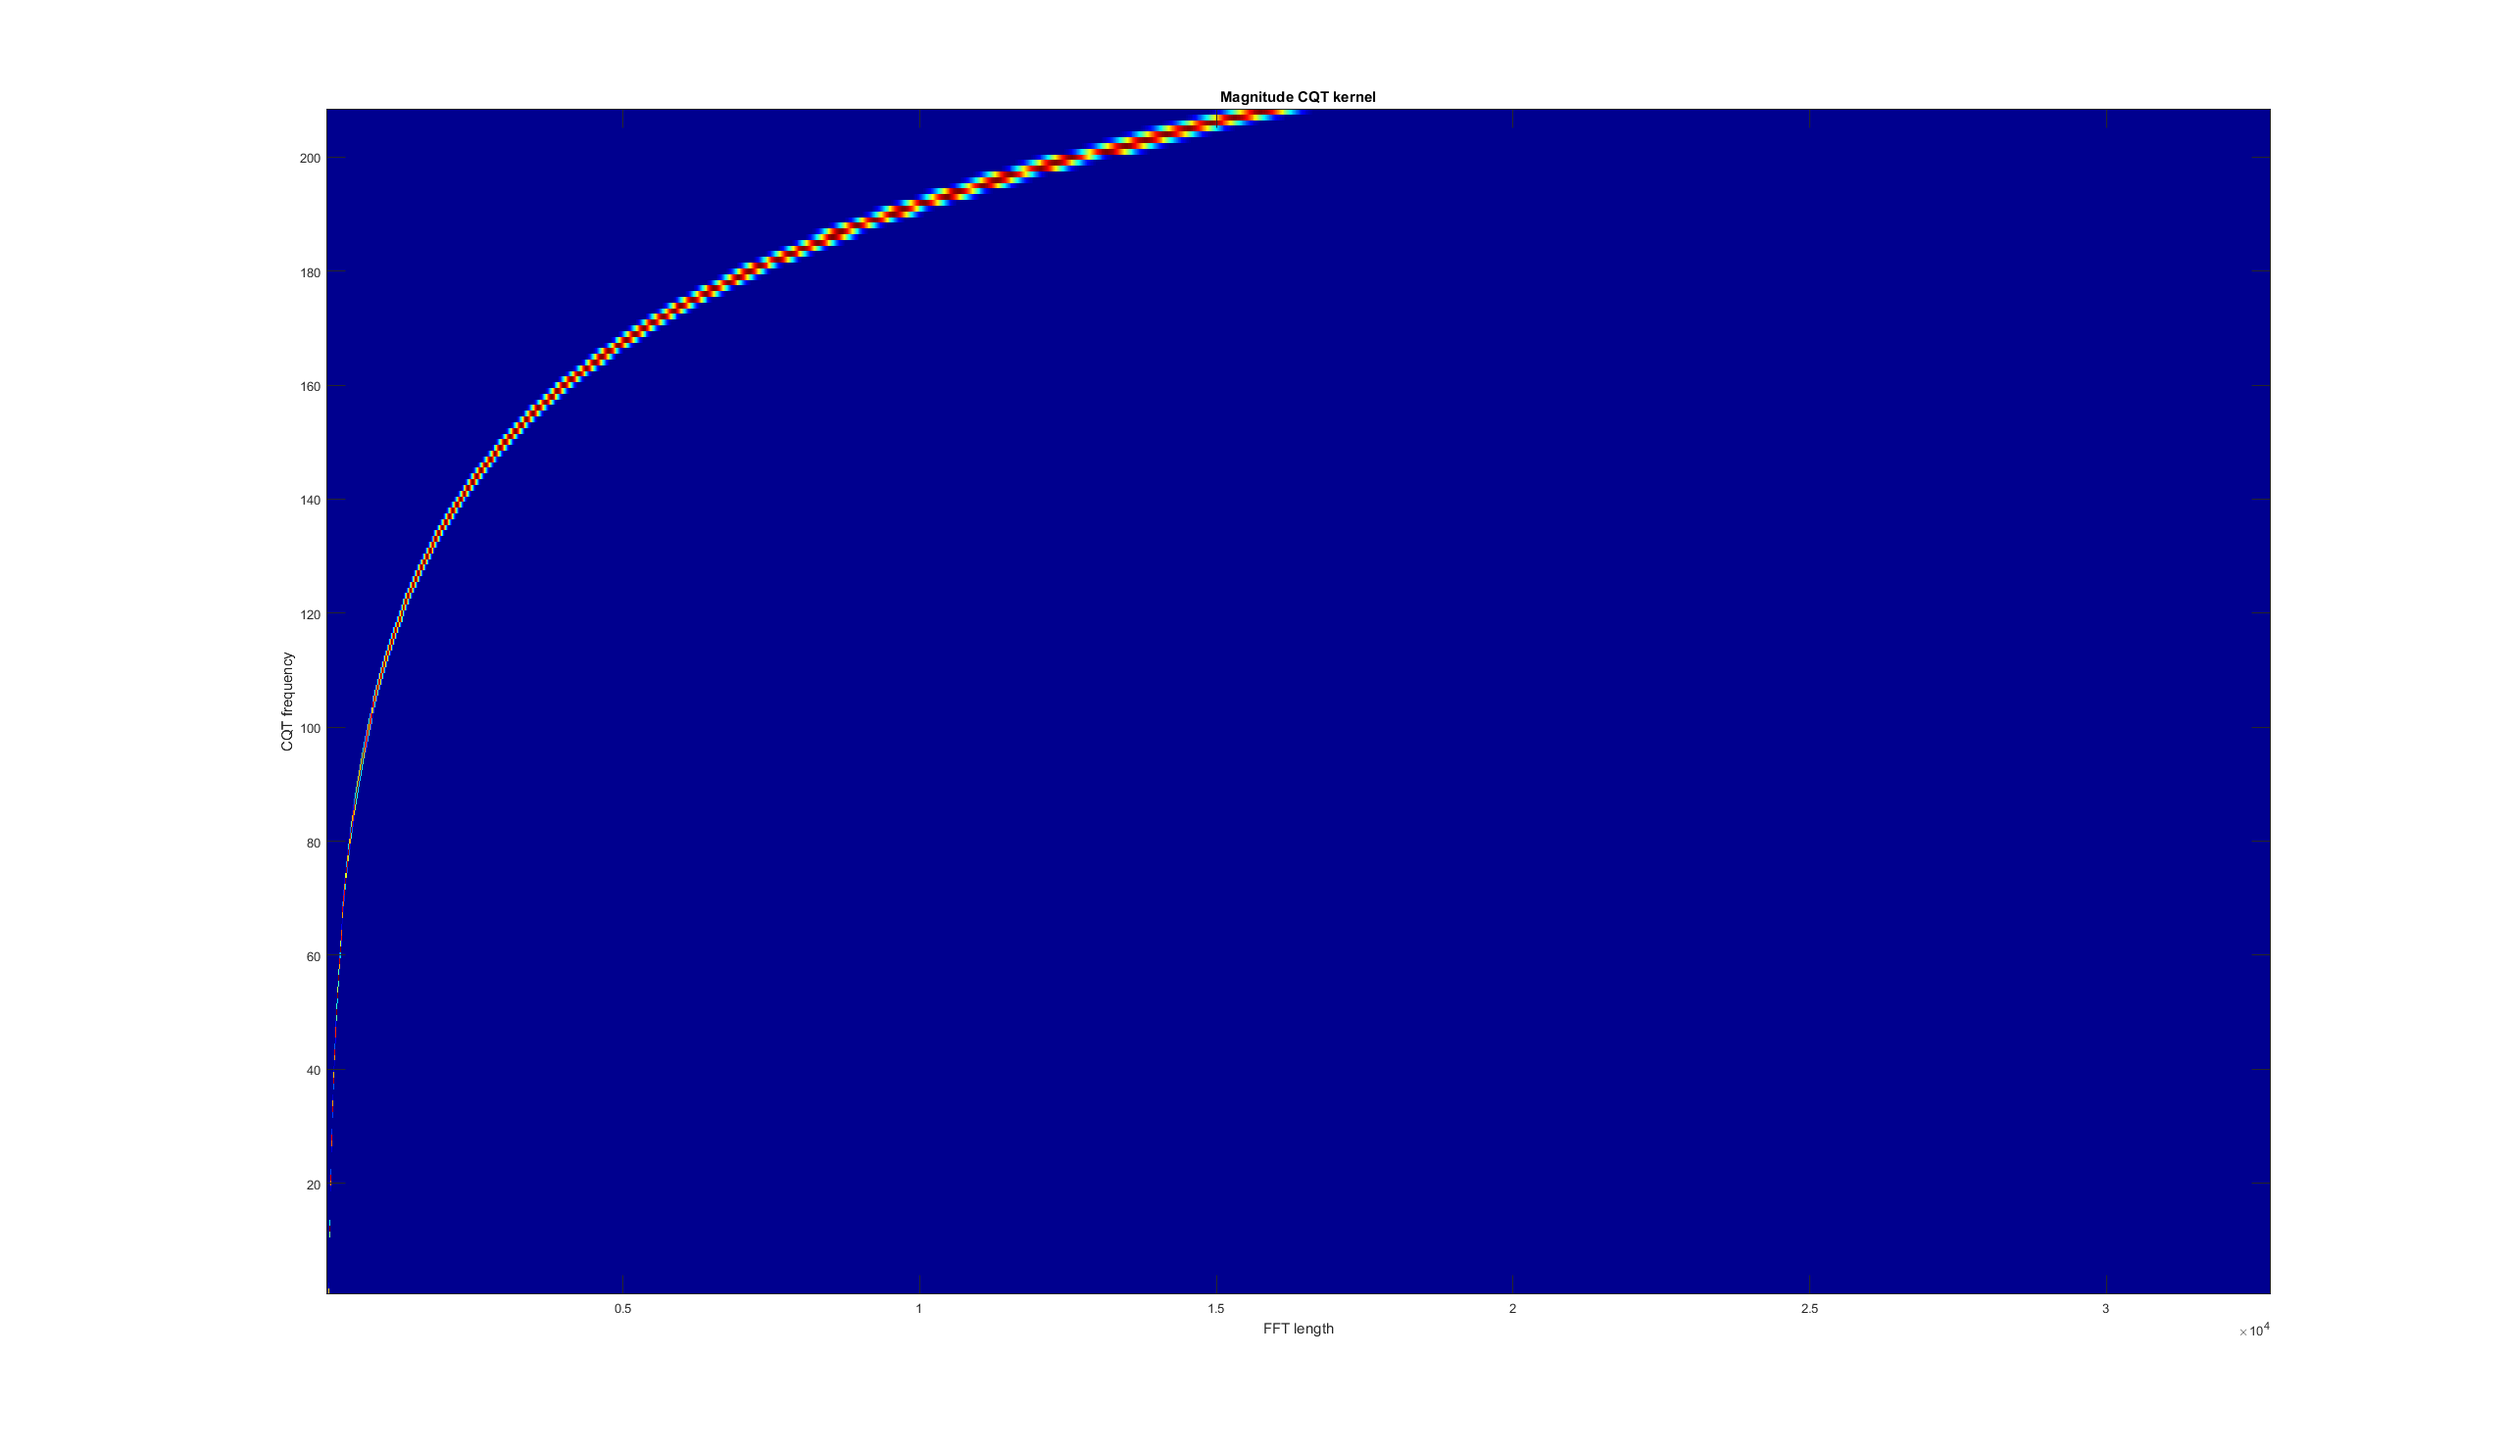
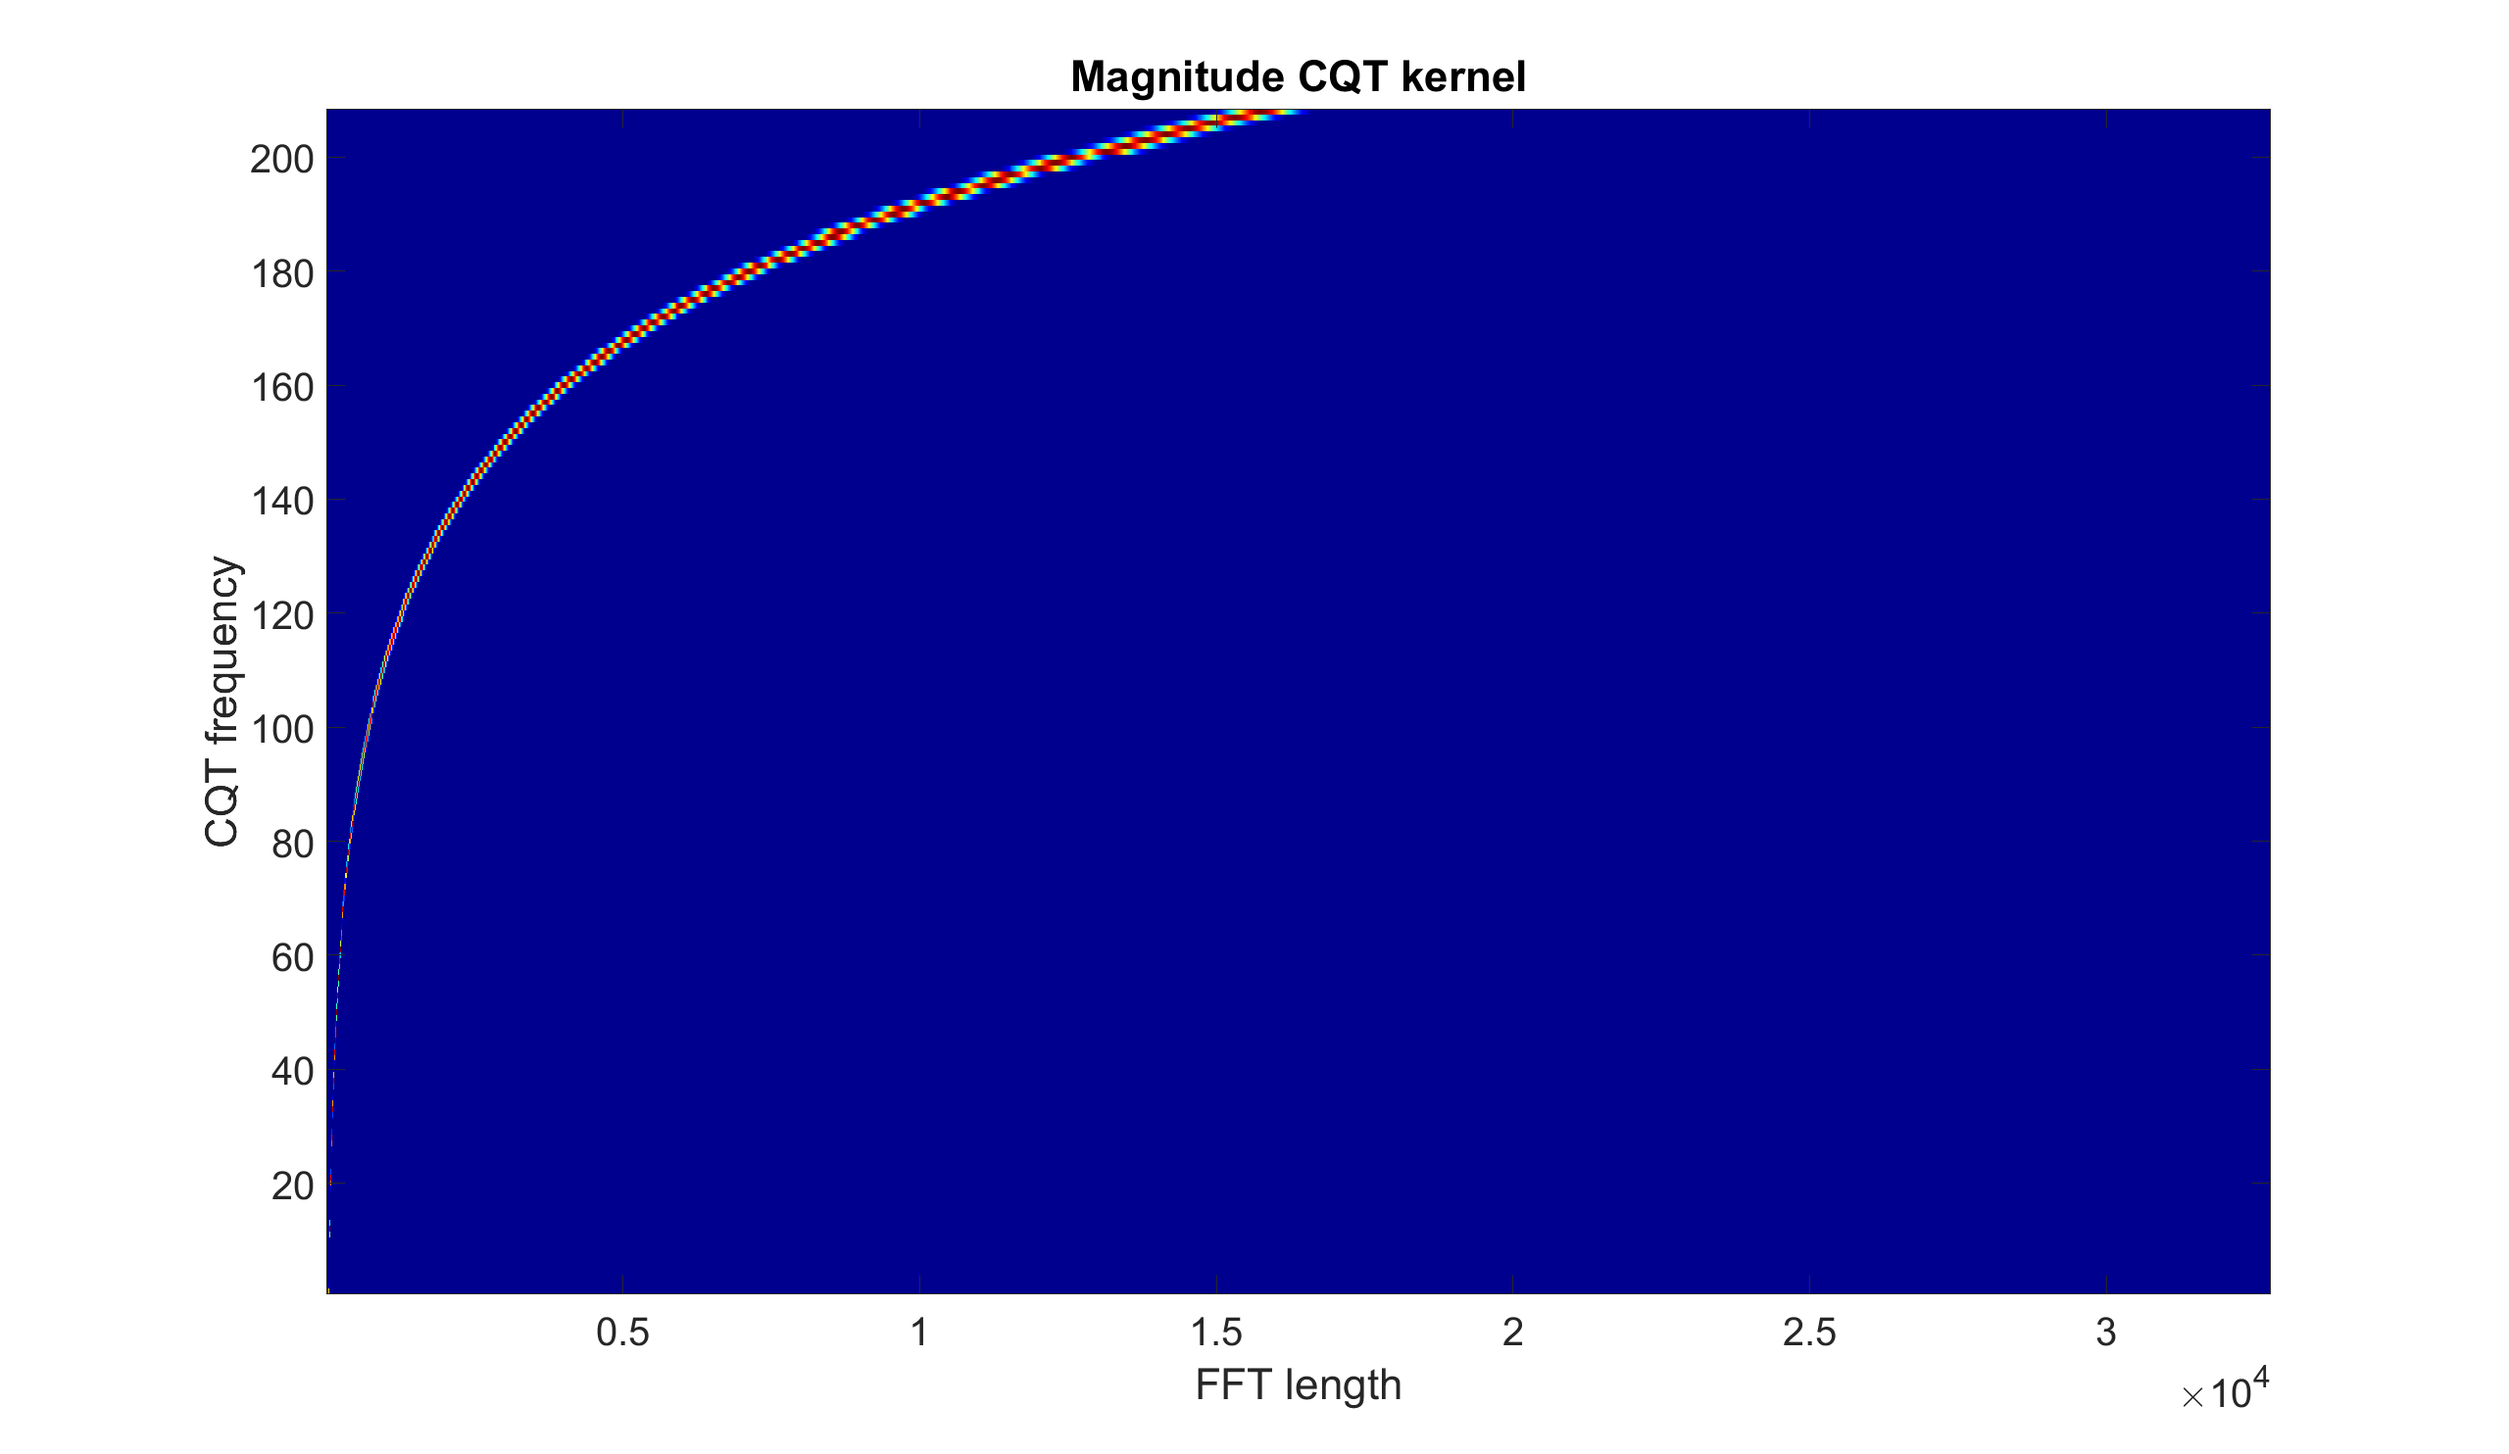
Updated images.

diff --git a/z.m b/z.m
@@ -429,24 +429,17 @@
             %       % MFCCs, delta MFCCs, and delta-delta MFCCs displayed in s
             %       step_length = (2^nextpow2(0.04*sample_rate))/2;
             %       figure
-            %       subplot(3,1,1)
-            %       plot(audio_mfcc')
-            %       axis tight
-            %       title('MFCCs')
+            %       subplot(3,1,1), plot(audio_mfcc'), axis tight, title('MFCCs')
             %       xticks(round((1:floor(length(audio_signal)/sample_rate))*sample_rate/step_length))
             %       xticklabels(1:floor(length(audio_signal)/sample_rate))
             %       xlabel('Time (s)')
-            %       subplot(3,1,2)
-            %       plot(audio_deltamfcc')
-            %       axis tight
-            %       title('Delta MFCCs')
+            %       set(gca,'FontSize',30)
+            %       subplot(3,1,2), plot(audio_deltamfcc'), axis tight, title('Delta MFCCs')
             %       xticks(round((1:floor(length(audio_signal)/sample_rate))*sample_rate/step_length))
             %       xticklabels(1:floor(length(audio_signal)/sample_rate))
             %       xlabel('Time (s)')
-            %       subplot(3,1,3)
-            %       plot(audio_deltadeltamfcc')
-            %       axis tight
-            %       title('Delta-delta MFCCs')
+            %       set(gca,'FontSize',30)
+            %       subplot(3,1,3), plot(audio_deltadeltamfcc'), axis tight, title('Delta-delta MFCCs')
             %       xticks(round((1:floor(length(audio_signal)/sample_rate))*sample_rate/step_length))
             %       xticklabels(1:floor(length(audio_signal)/sample_rate))
             %       xlabel('Time (s)')
@@ -531,19 +524,18 @@
             %       
             %       % DCT-I, II, III, and IV, Matlab's versions, and their differences displayed
             %       figure
-            %       subplot(4,3,1), plot(audio_dct1), axis tight, title('DCT-I')
-            %       subplot(4,3,2), plot(matlab_dct1), axis tight, title('Maltab''s DCT-I')
-            %       subplot(4,3,3), plot(audio_dct1-matlab_dct1), axis tight, title('Differences')
-            %       subplot(4,3,4), plot(audio_dct2), axis tight, title('DCT-II')
-            %       subplot(4,3,5), plot(matlab_dct2),axis tight, title('Maltab''s DCT-II')
-            %       subplot(4,3,6), plot(audio_dct2-matlab_dct2), axis tight, title('Differences')
-            %       subplot(4,3,7), plot(audio_dct3), axis tight, title('DCT-III')
-            %       subplot(4,3,8), plot(matlab_dct3), axis tight, title('Maltab''s DCT-III')
-            %       subplot(4,3,9), plot(audio_dct3-matlab_dct3), axis tight, title('Differences')
-            %       subplot(4,3,10), plot(audio_dct4), axis tight, title('DCT-IV')
-            %       subplot(4,3,11), plot(matlab_dct4), axis tight, title('Maltab''s DCT-IV')
-            %       subplot(4,3,12), plot(audio_dct4-matlab_dct4), axis tight, title('Differences')
-            %       set(gca,'FontSize',30)
+            %       subplot(4,3,1), plot(audio_dct1), axis tight, title('DCT-I'), set(gca,'FontSize',30)
+            %       subplot(4,3,2), plot(matlab_dct1), axis tight, title('Maltab''s DCT-I'), set(gca,'FontSize',30)
+            %       subplot(4,3,3), plot(audio_dct1-matlab_dct1), axis tight, title('Differences'), set(gca,'FontSize',30)
+            %       subplot(4,3,4), plot(audio_dct2), axis tight, title('DCT-II'), set(gca,'FontSize',30)
+            %       subplot(4,3,5), plot(matlab_dct2),axis tight, title('Maltab''s DCT-II'), set(gca,'FontSize',30)
+            %       subplot(4,3,6), plot(audio_dct2-matlab_dct2), axis tight, title('Differences'), set(gca,'FontSize',30)
+            %       subplot(4,3,7), plot(audio_dct3), axis tight, title('DCT-III'), set(gca,'FontSize',30)
+            %       subplot(4,3,8), plot(matlab_dct3), axis tight, title('Maltab''s DCT-III'), set(gca,'FontSize',30)
+            %       subplot(4,3,9), plot(audio_dct3-matlab_dct3), axis tight, title('Differences'), set(gca,'FontSize',30)
+            %       subplot(4,3,10), plot(audio_dct4), axis tight, title('DCT-IV'), set(gca,'FontSize',30)
+            %       subplot(4,3,11), plot(matlab_dct4), axis tight, title('Maltab''s DCT-IV'), set(gca,'FontSize',30)
+            %       subplot(4,3,12), plot(audio_dct4-matlab_dct4), axis tight, title('Differences'), set(gca,'FontSize',30)
             %   
             %   See also dct, fft
             
@@ -654,19 +646,18 @@
             %       
             %       % DST-I, II, III, and IV, respective inverses, and differences with the original signal displayed
             %       figure
-            %       subplot(4,3,1), plot(audio_dst1), axis tight, title('DST-I')
-            %       subplot(4,3,2), plot(audio_idst1), axis tight, title('Inverse DST-I = DST-I')
-            %       subplot(4,3,3), plot(audio_signal-audio_idst1), axis tight, title('Reconstruction differences')
-            %       subplot(4,3,4), plot(audio_dst2), axis tight, title('DST-II')
-            %       subplot(4,3,5), plot(audio_idst2), axis tight, title('Inverse DST-II = DST-III')
-            %       subplot(4,3,6), plot(audio_signal-audio_idst2), axis tight, title('Reconstruction differences')
-            %       subplot(4,3,7), plot(audio_dst3), axis tight, title('DST-III')
-            %       subplot(4,3,8), plot(audio_idst3), axis tight, title('Inverse DST-III = DST-II')
-            %       subplot(4,3,9), plot(audio_signal-audio_idst3), axis tight, title('Reconstruction differences')
-            %       subplot(4,3,10), plot(audio_dst4), axis tight, title('DST-IV')
-            %       subplot(4,3,11), plot(audio_idst4), axis tight, title('Inverse DST-IV = DST-IV')
-            %       subplot(4,3,12), plot(audio_signal-audio_idst4), axis tight, title('Reconstruction differences')
-            %       set(gca,'FontSize',30)
+            %       subplot(4,3,1), plot(audio_dst1), axis tight, title('DST-I'), set(gca,'FontSize',30)
+            %       subplot(4,3,2), plot(audio_idst1), axis tight, title('Inverse DST-I = DST-I'), set(gca,'FontSize',30)
+            %       subplot(4,3,3), plot(audio_signal-audio_idst1), axis tight, title('Reconstruction differences'), set(gca,'FontSize',30)
+            %       subplot(4,3,4), plot(audio_dst2), axis tight, title('DST-II'), set(gca,'FontSize',30)
+            %       subplot(4,3,5), plot(audio_idst2), axis tight, title('Inverse DST-II = DST-III'), set(gca,'FontSize',30)
+            %       subplot(4,3,6), plot(audio_signal-audio_idst2), axis tight, title('Reconstruction differences'), set(gca,'FontSize',30)
+            %       subplot(4,3,7), plot(audio_dst3), axis tight, title('DST-III'), set(gca,'FontSize',30)
+            %       subplot(4,3,8), plot(audio_idst3), axis tight, title('Inverse DST-III = DST-II'), set(gca,'FontSize',30)
+            %       subplot(4,3,9), plot(audio_signal-audio_idst3), axis tight, title('Reconstruction differences'), set(gca,'FontSize',30)
+            %       subplot(4,3,10), plot(audio_dst4), axis tight, title('DST-IV'), set(gca,'FontSize',30)
+            %       subplot(4,3,11), plot(audio_idst4), axis tight, title('Inverse DST-IV = DST-IV'), set(gca,'FontSize',30)
+            %       subplot(4,3,12), plot(audio_signal-audio_idst4), axis tight, title('Reconstruction differences'), set(gca,'FontSize',30)
             %
             %   See also dct, fft
             
@@ -838,28 +829,21 @@
             %       
             %       % Original, resynthesized, and error signals
             %       figure
-            %       subplot(3,1,1)
-            %       plot(audio_signal)
-            %       title('Original Signal')
+            %       subplot(3,1,1), plot(audio_signal), title('Original Signal')
             %       xticks(sample_rate:sample_rate:length(audio_signal))
             %       xticklabels(1:floor(length(audio_signal)/sample_rate))
             %       xlabel('Time (s)')
-            %       axis tight
-            %       subplot(3,1,2)
-            %       plot(audio_signal2)
-            %       title('Resynthesized Signal')
+            %       axis tight, set(gca,'FontSize',30)
+            %       subplot(3,1,2), plot(audio_signal2), title('Resynthesized Signal')
             %       xticks(sample_rate:sample_rate:length(audio_signal))
             %       xticklabels(1:floor(length(audio_signal)/sample_rate))
             %       xlabel('Time (s)')
-            %       axis tight
-            %       subplot(3,1,3)
-            %       plot(error_signal)
-            %       title('Error Signal')
+            %       axis tight, set(gca,'FontSize',30)
+            %       subplot(3,1,3), plot(error_signal), title('Error Signal')
             %       xticks(sample_rate:sample_rate:length(audio_signal))
             %       xticklabels(1:floor(length(audio_signal)/sample_rate))
             %       xlabel('Time (s)')
-            %       axis tight
-            %       set(gca,'FontSize',30)
+            %       axis tight, set(gca,'FontSize',30)
             %
             %   See also dct, z.mdct
             
